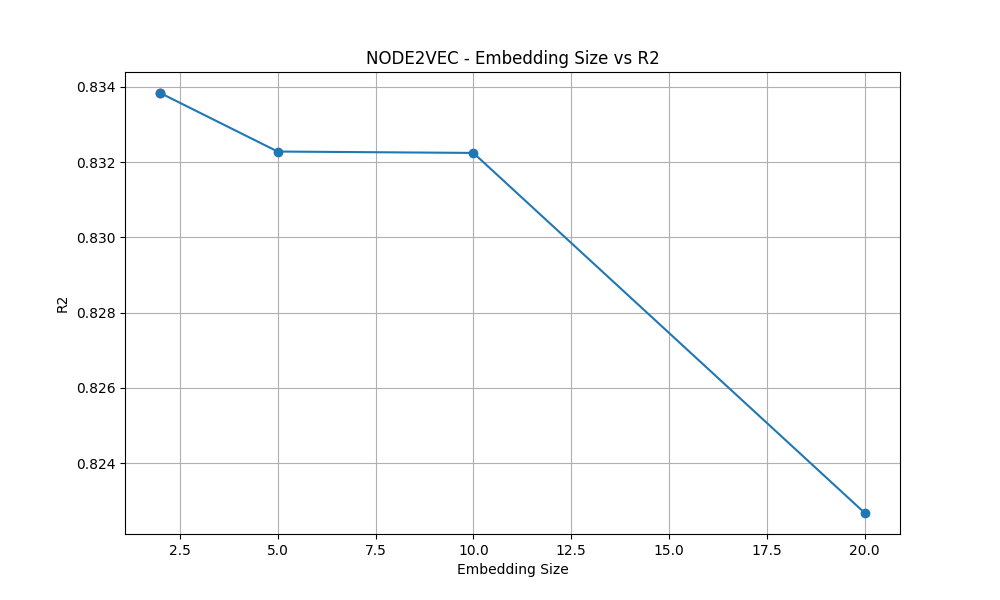
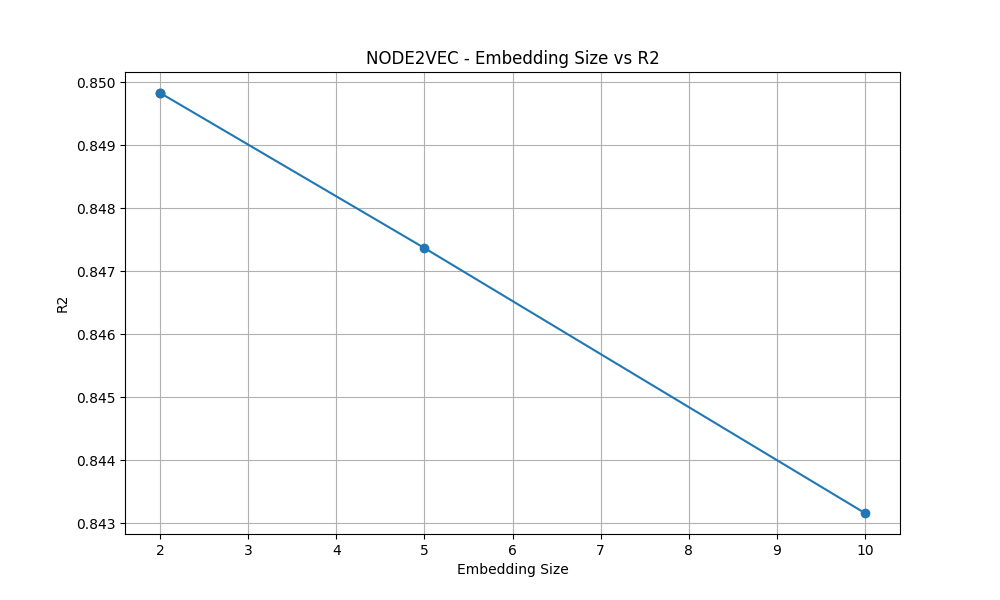
MHD - 20000, --num-walks 50 --walk-length 15 --p 3 --q 1

diff --git a/utils.py b/utils.py
@@ -55,7 +55,7 @@ def load_dataset(dataset_name: str):
         # df['id'] = df.index  # Add this line to create a unique identifier for each house
 
         df = pd.read_excel('data/MHD-housing.xlsx')
-        shuffle_indices = np.random.choice(np.arange(df.shape[0]), size=10000, replace=False,)
+        shuffle_indices = np.random.choice(np.arange(df.shape[0]), size=20000, replace=False,)
         df = df.iloc[shuffle_indices].reset_index(drop=True)
         df = df.dropna().reset_index(drop=True)
         
